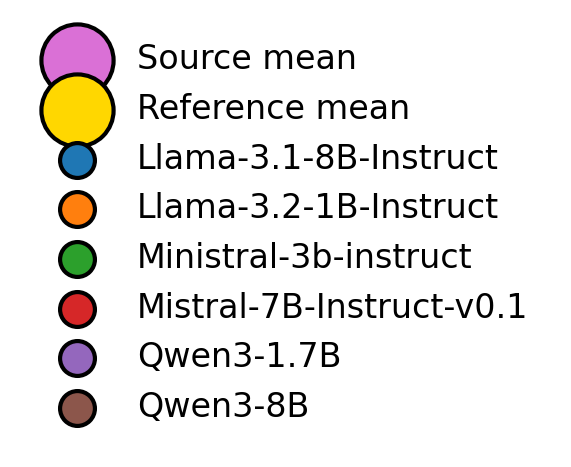
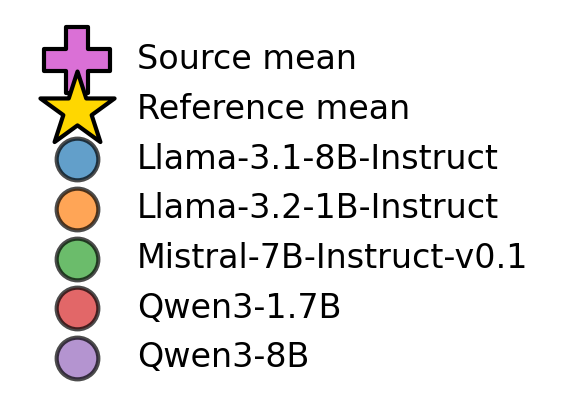
improve visuals

Changed region(s): [[0.2382, 0.0935, 0.8634, 0.9041], [0.0595, 0.0312, 0.2084, 0.9353], [0.8932, 0.5612, 0.9229, 0.6859]]

diff --git a/src/sft_eval_compare.py b/src/sft_eval_compare.py
@@ -70,7 +70,7 @@ def plot_mean_ctrl(all_results, save_dir, all_means):
     out_dir = os.path.join(save_dir, "mean_plots")
     os.makedirs(out_dir, exist_ok=True)
 
-    def jitter(xs, scale=0.20):
+    def jitter(xs, scale=0.25):
         return xs + np.random.uniform(-scale, scale, size=len(xs))
     
     def map_short_dataset_name(ds_name):
@@ -97,6 +97,7 @@ def plot_mean_ctrl(all_results, save_dir, all_means):
                          for ds_map in all_means.values()
                          for d in ds_map.values()
                          for m in d})
+    all_models.remove("Ministral-3b-instruct")
     cmap = plt.get_cmap("tab10")
     model_colors = {m: cmap(i % 10) for i, m in enumerate(all_models)}
 
@@ -116,22 +117,24 @@ def plot_mean_ctrl(all_results, save_dir, all_means):
         fig, ax = plt.subplots(figsize=(4, 2.5))
 
         # big points
-        ax.scatter(x, source_vals,    s=350, color="orchid",
-                   label="Source mean",    edgecolor="black", zorder=3)
+        ax.scatter(x, source_vals,    s=250, color="orchid",
+                   label="Source mean",    edgecolor="black", zorder=3, marker="P")
         ax.scatter(x, reference_vals, s=350, color="gold",
-                   label="Reference mean", edgecolor="black", zorder=3)
+                   label="Reference mean", edgecolor="black", zorder=3, marker="*")
 
         # per-model dots
         for i, ds in enumerate(datasets_orig):
             for model, mdata in ds_map[ds].items():
+                if model not in all_models:
+                    continue
                 col = model_colors[model]
                 pred = mdata["prediction"]
                 xi = jitter(np.array([i]))
                 lbl = model if ds == datasets_orig[0] else "_nolegend_"
                 ax.scatter(xi, pred, color=col, edgecolor="black",
-                           s=100, label=lbl, zorder=4)
+                           s=100, label=lbl, zorder=4, alpha=0.7)
 
-        ax.set_xticks(x, fontsize=13)
+        ax.set_xticks(x)
         ax.set_xticklabels(datasets_disp, rotation=0, ha="center", fontsize=13)
         ax.set_ylabel(f"{map_short_ctrl_attr_name(ctrl_attr)} mean", fontsize=13)
         ax.grid(axis="y", linestyle="--", alpha=0.5)
@@ -166,94 +169,6 @@ def plot_mean_ctrl(all_results, save_dir, all_means):
         leg_path = os.path.join(out_dir, f"{ctrl_attr}_legend.png")
         fig_leg.savefig(leg_path, dpi=300, bbox_inches="tight")
         plt.close(fig_leg)
-
-def plot_mean_ctrl_with_broken_axis(all_means, save_dir):
-    out_dir = os.path.join(save_dir, "mean_plots_broken")
-    os.makedirs(out_dir, exist_ok=True)
-
-    def jitter(xs, scale=0.20):
-        return xs + np.random.uniform(-scale, scale, size=len(xs))
-
-    # collect all model names once
-    all_models = sorted({m
-                         for ds_map in all_means.values()
-                         for d in ds_map.values()
-                         for m in d})
-
-    cmap = plt.get_cmap("tab10")
-    model_colors = {m: cmap(i % 10) for i, m in enumerate(all_models)}
-
-    for ctrl_attr, ds_map in all_means.items():
-        datasets = list(ds_map.keys())
-        x = np.arange(len(datasets))
-
-        # gather source/ref and preds
-        source_vals, reference_vals = [], []
-        preds_by_ds = []
-        for ds in datasets:
-            entry0 = next(iter(ds_map[ds].values()))
-            source_vals.append(entry0["source"])
-            reference_vals.append(entry0["reference"])
-            preds_by_ds.append([v["prediction"] for v in ds_map[ds].values()])
-
-        # figure with two subplots sharing x
-        fig, (ax_low, ax_high) = plt.subplots(2,1, sharex=True,
-                                              gridspec_kw={"height_ratios":[1,3]},
-                                              figsize=(5,4))
-
-        # define the break point
-        # you might tune these limits to your data
-        low_ylim = (min(min(source_vals), min(reference_vals)), 
-                    max(max(source_vals), max(reference_vals)) + 0.5)
-        high_ylim = (max(low_ylim[1] + 0.1, 0), max(max(map(max, preds_by_ds)), low_ylim[1]) + 1)
-
-        # plot on both axes
-        for ax, ylim in zip((ax_low, ax_high),(high_ylim, low_ylim)):
-            # big points
-            ax.scatter(x, source_vals,    s=200, c="orchid",   edgecolor="k", label="Source mean",    zorder=3)
-            ax.scatter(x, reference_vals, s=200, c="gold",     edgecolor="k", label="Reference mean", zorder=3)
-            # preds
-            for xi, preds in zip(x, preds_by_ds):
-                xs = jitter(np.full(len(preds), xi))
-                for i, p in enumerate(preds):
-                    ax.scatter(xs[i], p,
-                               color=model_colors[all_models[i]],
-                               edgecolor="k", s=60,
-                               label=("_nolabel_" if ax is ax_high else all_models[i]),
-                               zorder=4)
-            ax.set_ylim(*ylim)
-            ax.grid(axis="y", linestyle="--", alpha=0.5)
-
-        # hide the spines between ax_low and ax_high
-        ax_low.spines['bottom'].set_visible(False)
-        ax_high.spines['top'].set_visible(False)
-        ax_low.tick_params(labeltop=False)  # no tick labels on top plot
-        ax_high.xaxis.tick_bottom()
-
-        # add the diagonal lines to indicate the break
-        d = .015  # how big to make those diagonal lines in axes coords
-        kwargs = dict(transform=ax_low.transAxes, color='k', clip_on=False)
-        ax_low.plot((-d, +d), (-d*2, +d*2), **kwargs)
-        ax_low.plot((1-d, 1+d), (-d*2, +d*2), **kwargs)
-
-        kwargs.update(transform=ax_high.transAxes)  # switch to the bottom axes
-        ax_high.plot((-d, +d), (1-d*2, 1+d*2), **kwargs)
-        ax_high.plot((1-d, 1+d), (1-d*2, 1+d*2), **kwargs)
-
-        # labels & legend
-        ax_high.set_ylabel(f"{ctrl_attr} mean")
-        ax_high.set_xticks(x)
-        ax_high.set_xticklabels(datasets, rotation=45, ha="right")
-        # build legend once on the bottom axis
-        handles, labels = ax_high.get_legend_handles_labels()
-        # filter out the dummy labels
-        unique = dict(zip(labels, handles))
-        fig.legend(unique.values(), unique.keys(), loc='upper right', ncol=1, fontsize=8)
-
-        plt.suptitle(f"Mean {ctrl_attr}", y=1.02)
-        plt.tight_layout()
-        fig.savefig(os.path.join(out_dir, f"{ctrl_attr}_broken.png"), dpi=300)
-        plt.close(fig)
 
 
 def plot_comparison_metrics(results, dataset, control_attr, save_dir, output_prefix, color_map_path):
@@ -526,8 +441,7 @@ def main():
     # with open(means_file, "w", encoding="utf-8") as f:
     #     json.dump(all_means, f, indent=4)
 
-    # plot_mean_ctrl(all_results, args.save_dir, all_means)
-    plot_mean_ctrl_with_broken_axis(all_means, args.save_dir)
+    plot_mean_ctrl(all_results, args.save_dir, all_means)
 
     # plot_comparison_metrics(
     #             all_results, 
